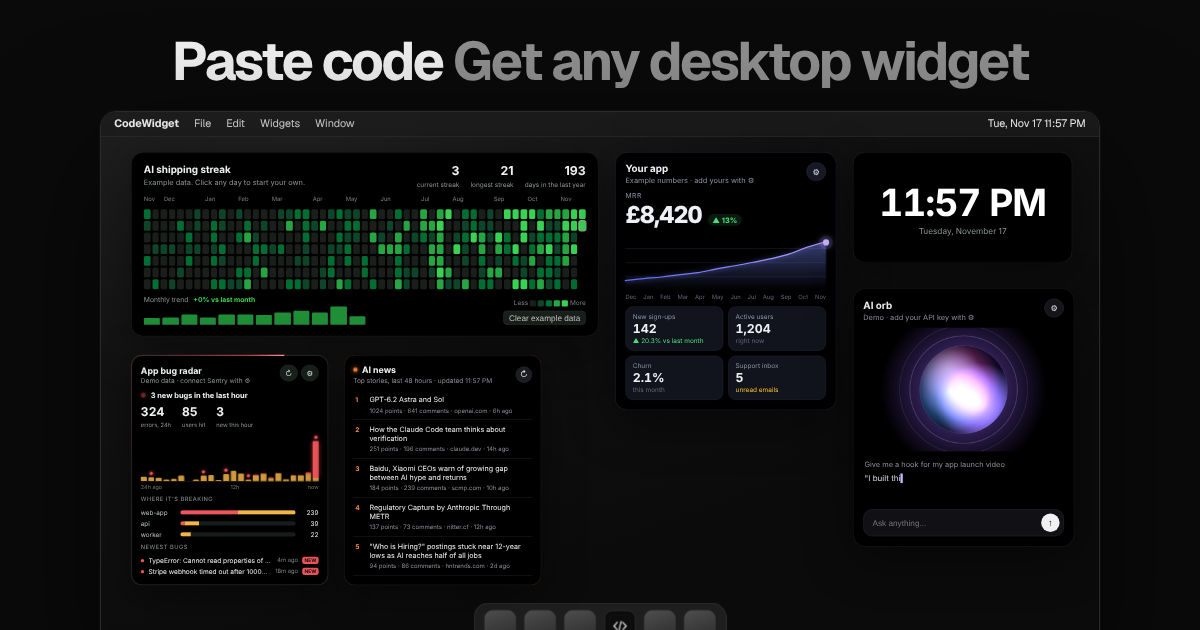
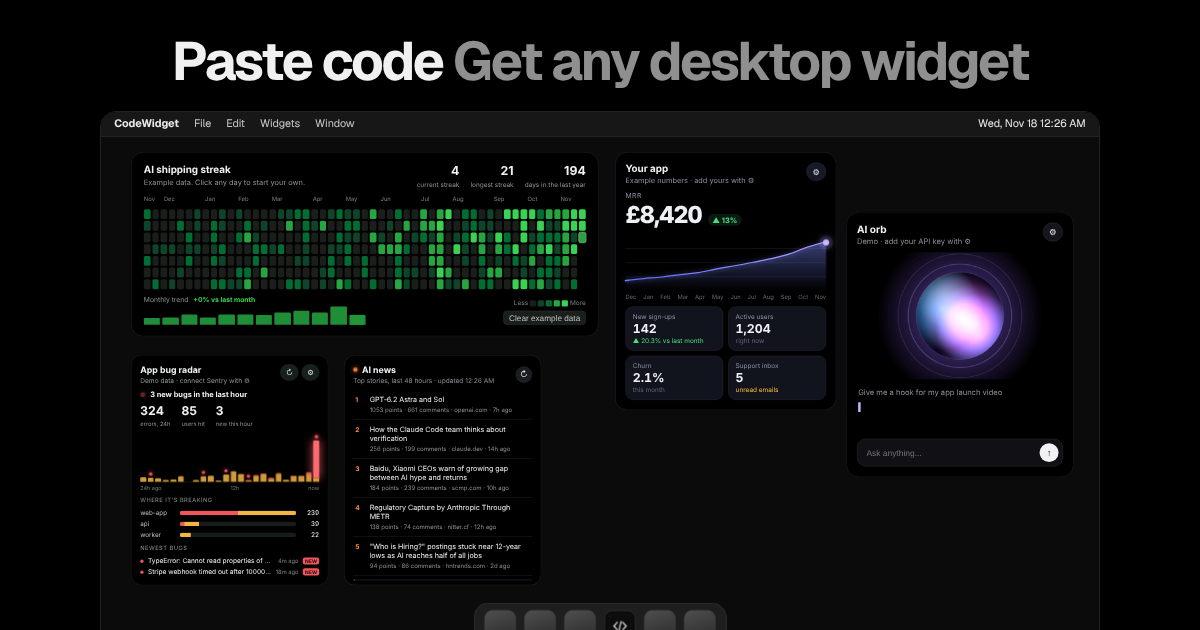
Website: fully black page, AI orb flies in, no banding, grey scrollbars, copy tweaks
- Page background is pure black; panels, fields and checkerboards darkened to match so they sit in it
  subtly.
- Removed the large soft shadows and gradient wallpaper that showed as visible bands on dark screens;
  the hero desktop wallpaper is flat near-black.
- Hero desktop: no clock. The CodeWidget window now types the AI orb's code and the orb flies onto
  the desktop.
- AI news: no scrolling; shows the five top stories.
- Grey, thin scrollbars everywhere (the code box's was bright white).
- Top badge reads Free · Open source · MIT. Footer says just "Free and open source (MIT)".
- Instagram link now goes to @toms.gpt.
- FAQ has six questions (Is it safe to paste code from other people? is back).
- Link preview image updated.

Claude-Session: https://claude.ai/code/session_017AiLmdtveXdU2VAx4AALy7

diff --git a/site/style.css b/site/style.css
@@ -1,10 +1,10 @@
 :root {
-  --bg: #0a0a0a;
-  --panel: #131313;
-  --line: #262626;
+  --bg: #000;
+  --panel: #0b0b0b;
+  --line: #1f1f1f;
   --text: #f0f0f0;
   --sub: #8f8f8f;
-  --field: #1a1a1a;
+  --field: #121212;
 }
 * { box-sizing: border-box; }
 html { scroll-behavior: smooth; }
@@ -15,13 +15,19 @@ body {
   -webkit-font-smoothing: antialiased;
 }
 a { color: inherit; }
+* { scrollbar-width: thin; scrollbar-color: #2a2a2a transparent; }
+::-webkit-scrollbar { width: 8px; height: 8px; }
+::-webkit-scrollbar-track { background: transparent; }
+::-webkit-scrollbar-thumb { background: #2a2a2a; border-radius: 8px; border: 2px solid transparent; background-clip: padding-box; }
+::-webkit-scrollbar-thumb:hover { background-color: #3a3a3a; }
+::-webkit-scrollbar-corner { background: transparent; }
 button { font: inherit; }
 .muted { color: var(--sub); }
 .small { font-size: 13px; }
 
 .nav {
   position: sticky; top: 0; z-index: 5; display: flex; align-items: center; justify-content: space-between;
-  padding: 12px 24px; background: rgba(10,10,10,0.85); backdrop-filter: blur(12px); border-bottom: 1px solid var(--line);
+  padding: 12px 24px; background: rgba(0,0,0,0.82); backdrop-filter: blur(12px); border-bottom: 1px solid var(--line);
 }
 .logo { display: flex; align-items: center; gap: 8px; font-weight: 700; text-decoration: none; }
 .logo img { width: 24px; height: 24px; }
@@ -34,7 +40,7 @@ button { font: inherit; }
   padding: 10px 18px; font-weight: 600; cursor: pointer; text-decoration: none; white-space: nowrap;
   transition: transform .15s ease, background .15s ease, border-color .15s ease, box-shadow .2s ease;
 }
-.btn:hover { transform: translateY(-1px); box-shadow: 0 6px 20px rgba(255,255,255,0.08); }
+.btn:hover { transform: translateY(-1px); }
 .btn:active { transform: translateY(0); }
 .btn.big { padding: 13px 22px; font-size: 15px; border-radius: 11px; }
 .btn:hover { background: #fff; }
@@ -61,14 +67,12 @@ h1 .soft { color: #8f8f8f; }
 /* The live desktop: a 1200 x 660 scene, scaled to fit. */
 .showcase {
   position: relative; margin: 56px auto 0; max-width: 1120px; aspect-ratio: 1200 / 660; border-radius: 16px; overflow: hidden;
-  border: 1px solid #2a2a2a; box-shadow: 0 40px 120px rgba(0,0,0,0.6), 0 0 0 1px rgba(255,255,255,0.03), inset 0 1px 0 rgba(255,255,255,0.08);
+  border: 1px solid #222; box-shadow: inset 0 1px 0 rgba(255,255,255,0.06);
   text-align: left;
 }
 .desk {
   position: absolute; left: 0; top: 0; width: 1200px; height: 660px; transform-origin: 0 0;
-  background:
-    radial-gradient(70% 80% at 20% 0%, rgba(255, 255, 255, 0.05), transparent 70%),
-    linear-gradient(160deg, #171717, #0b0b0b 70%);
+  background: #0b0b0b;
 }
 .menubar {
   position: absolute; left: 0; right: 0; top: 0; height: 30px; display: flex; justify-content: space-between; align-items: center;
@@ -76,12 +80,12 @@ h1 .soft { color: #8f8f8f; }
   border-bottom: 1px solid rgba(255,255,255,0.06);
 }
 .mb-left { display: flex; gap: 18px; } .mb-left span { color: #c9c9c9; }
-.dw { position: absolute; transform-origin: 0 0; border-radius: 20px; filter: drop-shadow(0 18px 40px rgba(0,0,0,0.45)); }
+.dw { position: absolute; transform-origin: 0 0; border-radius: 20px; }
 .dw iframe { width: 100%; height: 100%; border: 0; background: transparent; pointer-events: none; display: block; }
 .dw.fly { opacity: 0; z-index: 4; transition: transform 1s cubic-bezier(.2,.8,.2,1), opacity .4s ease; }
 .cw-win {
   position: absolute; left: 330px; top: 150px; width: 560px; height: 330px; z-index: 3; border-radius: 12px; overflow: hidden;
-  background: rgba(14, 14, 16, 0.96); border: 1px solid #2c2c30; box-shadow: 0 30px 80px rgba(0,0,0,0.55);
+  background: #0c0c0e; border: 1px solid #2c2c30;
   transition: opacity .6s ease, transform .6s ease;
 }
 .cw-win.gone { opacity: 0; transform: scale(0.96); }
@@ -98,7 +102,7 @@ h1 .soft { color: #8f8f8f; }
 .cw-code::after { content: "▍"; color: #f2f2f2; animation: blink 1s steps(1) infinite; }
 .cw-win.done .cw-code::after { content: ""; }
 @keyframes blink { 50% { opacity: 0; } }
-.cw-preview { flex: 1; position: relative; font-size: 11px; color: #6b6b6b; padding: 10px 12px; background-color: #0e0e0e;
+.cw-preview { flex: 1; position: relative; font-size: 11px; color: #6b6b6b; padding: 10px 12px; background-color: #070707;
   background-image: linear-gradient(45deg, #151515 25%, transparent 25%), linear-gradient(-45deg, #151515 25%, transparent 25%),
   linear-gradient(45deg, transparent 75%, #151515 75%), linear-gradient(-45deg, transparent 75%, #151515 75%);
   background-size: 14px 14px; background-position: 0 0, 0 7px, 7px -7px, -7px 0; }
@@ -137,7 +141,7 @@ h1 .soft { color: #8f8f8f; }
 .num { width: 76px; }
 .x { color: var(--sub); }
 .panes {
-  box-shadow: inset 0 1px 0 rgba(255,255,255,0.04), 0 30px 80px rgba(0,0,0,0.35);
+  box-shadow: inset 0 1px 0 rgba(255,255,255,0.04);
   display: grid; grid-template-columns: 1fr 1fr;
   border: 1px solid var(--line); border-radius: 0 0 14px 14px; overflow: hidden;
 }
@@ -149,16 +153,16 @@ h1 .soft { color: #8f8f8f; }
 }
 /* On desktop the code box is exactly as tall as the preview next to it (the preview sets the height). */
 textarea {
-  flex: 1 1 0; min-height: 0; height: 0; resize: none; border: 0; outline: none; padding: 14px; background: #0f0f0f; color: #e6e6e6; tab-size: 2;
+  flex: 1 1 0; min-height: 0; height: 0; resize: none; border: 0; outline: none; padding: 14px; background: #070707; color: #e6e6e6; tab-size: 2;
   font: 12.5px/1.6 "Geist Mono", ui-monospace, SFMono-Regular, Menlo, Consolas, monospace;
 }
 /* The preview box fits the widget: its height is set from the widget's size (app.js). */
 .stage {
   flex: none; height: 300px; transition: height .25s ease; position: relative; overflow: hidden; display: flex; align-items: center; justify-content: center;
-  background-color: #0e0e0e;
+  background-color: #070707;
   background-image:
-    linear-gradient(45deg, #161616 25%, transparent 25%), linear-gradient(-45deg, #161616 25%, transparent 25%),
-    linear-gradient(45deg, transparent 75%, #161616 75%), linear-gradient(-45deg, transparent 75%, #161616 75%);
+    linear-gradient(45deg, #0d0d0d 25%, transparent 25%), linear-gradient(-45deg, #0d0d0d 25%, transparent 25%),
+    linear-gradient(45deg, transparent 75%, #0d0d0d 75%), linear-gradient(-45deg, transparent 75%, #0d0d0d 75%);
   background-size: 20px 20px; background-position: 0 0, 0 10px, 10px -10px, -10px 0;
 }
 .frame { flex: none; outline: 1px dashed #3a3a3a; transform-origin: center center; }
@@ -175,10 +179,10 @@ h3 { margin: 0 0 6px; font-size: 17px; }
 .example:hover { border-color: #3a3a3a; transform: translateY(-2px); }
 .example-stage {
   height: 460px; display: flex; align-items: center; justify-content: center; overflow: hidden; position: relative;
-  background-color: #0e0e0e;
+  background-color: #070707;
   background-image:
-    linear-gradient(45deg, #161616 25%, transparent 25%), linear-gradient(-45deg, #161616 25%, transparent 25%),
-    linear-gradient(45deg, transparent 75%, #161616 75%), linear-gradient(-45deg, transparent 75%, #161616 75%);
+    linear-gradient(45deg, #0d0d0d 25%, transparent 25%), linear-gradient(-45deg, #0d0d0d 25%, transparent 25%),
+    linear-gradient(45deg, transparent 75%, #0d0d0d 75%), linear-gradient(-45deg, transparent 75%, #0d0d0d 75%);
   background-size: 20px 20px; background-position: 0 0, 0 10px, 10px -10px, -10px 0;
 }
 .example-stage iframe { flex: none; border: 0; background: transparent; transform-origin: center center; }

diff --git a/site/index.html b/site/index.html
@@ -14,7 +14,7 @@
 <meta property="og:image:height" content="630">
 <meta name="twitter:card" content="summary_large_image">
 <meta name="twitter:image" content="https://thomaslrw.github.io/CodeWidget/og.png">
-<meta name="theme-color" content="#0a0a0a">
+<meta name="theme-color" content="#000000">
 <link rel="icon" href="icon.png">
 <link rel="preconnect" href="https://fonts.googleapis.com">
 <link rel="preconnect" href="https://fonts.gstatic.com" crossorigin>
@@ -35,7 +35,7 @@
 
 <header class="hero" id="top">
   <div class="badges">
-    <a class="badge" href="https://github.com/thomaslrw/CodeWidget" target="_blank" rel="noopener"><span class="pulse"></span>Open source &middot; MIT</a>
+    <a class="badge" href="https://github.com/thomaslrw/CodeWidget" target="_blank" rel="noopener"><span class="pulse"></span>Free &middot; Open source &middot; MIT</a>
     <a class="badge" href="https://github.com/thomaslrw/CodeWidget" target="_blank" rel="noopener" id="stars">&#9733; Star on GitHub</a>
   </div>
   <h1>Paste code<br><span class="soft">Get any desktop widget</span></h1>
@@ -55,7 +55,6 @@
       <div class="dw" data-src="examples/bug-radar.html" data-w="360" data-h="420" data-x="36" data-y="292" data-s="0.66"></div>
       <div class="dw" data-src="examples/ai-news.html" data-w="360" data-h="420" data-x="292" data-y="292" data-s="0.66"></div>
       <div class="dw" data-src="examples/founder-dashboard.html" data-w="360" data-h="420" data-x="618" data-y="48" data-s="0.74"></div>
-      <div class="dw" data-src="examples/ai-orb.html" data-w="360" data-h="420" data-x="904" data-y="212" data-s="0.74"></div>
       <div class="cw-win" id="cwWin">
         <div class="cw-title"><span class="lights"><i></i><i></i><i></i></span><span>CodeWidget</span><span class="cw-add" id="cwAdd">Add widget</span></div>
         <div class="cw-body">
@@ -63,7 +62,7 @@
           <div class="cw-preview"><span>Preview</span></div>
         </div>
       </div>
-      <div class="dw fly" id="flyer" data-src="examples/clock.html" data-w="400" data-h="200" data-x="904" data-y="48" data-s="0.66"></div>
+      <div class="dw fly" id="flyer" data-src="examples/ai-orb.html" data-w="360" data-h="420" data-x="896" data-y="120" data-s="0.76"></div>
       <div class="dock"><i></i><i></i><i></i><i class="me"></i><i></i><i></i></div>
     </div>
   </div>
@@ -162,6 +161,7 @@
     <details><summary>Which computers does it work on?</summary><p>Mac (Apple silicon and Intel), Windows and Linux. The download button picks the right one for you.</p></details>
     <details><summary>Does it work on my phone?</summary><p>No. CodeWidget is for desktop computers. Phones only let App Store apps put widgets on the home screen.</p></details>
     <details><summary>Why does my computer warn me the first time?</summary><p>CodeWidget isn't signed by Apple or Microsoft yet, so your computer asks you to confirm once. "First time opening it?" above shows where to click.</p></details>
+    <details><summary>Is it safe to paste code from other people?</summary><p>Widget code runs in a sandbox, like a web page. It can't read your files, run commands or use your camera or microphone. Only paste code you'd be happy to run in a browser.</p></details>
     <details><summary>What code works?</summary><p>One HTML file with its CSS and JavaScript inside. Code copied straight from an AI chat works, even with the ``` marks around it.</p></details>
   </div>
 </section>
@@ -176,8 +176,8 @@
 </section>
 
 <footer class="footer">
-  <span>Built by <a href="https://www.instagram.com/thomas.lrw/" target="_blank" rel="noopener">Thomas</a> with AI &middot; Free and open source (MIT)</span>
-  <span class="foot-links"><a href="https://github.com/thomaslrw/CodeWidget" target="_blank" rel="noopener">GitHub</a><a href="https://www.instagram.com/thomas.lrw/" target="_blank" rel="noopener">Instagram</a></span>
+  <span>Free and open source (MIT)</span>
+  <span class="foot-links"><a href="https://github.com/thomaslrw/CodeWidget" target="_blank" rel="noopener">GitHub</a><a href="https://www.instagram.com/toms.gpt/" target="_blank" rel="noopener">Instagram</a></span>
 </footer>
 
 <div id="toast" class="toast" hidden></div>

diff --git a/site/app.js b/site/app.js
@@ -352,17 +352,18 @@ function menuClock() {
 
 // The story in three seconds: code is pasted, the preview builds, the widget flies onto the desktop.
 const TYPED = [
-  ["c", "<!-- A clock with the date -->"],
-  ["", '<div class="clock">'],
-  ["", '  <div id="time">00:00</div>'],
-  ["", '  <div id="date"></div>'],
+  ["c", "<!-- AI orb: ask anything -->"],
+  ["", '<div class="w">'],
+  ["", '  <canvas id="orb"></canvas>'],
+  ["", '  <form id="ask">'],
+  ["", '    <input placeholder="Ask anything...">'],
+  ["", "  </form>"],
   ["", "</div>"],
   ["k", "<style>"],
-  ["", "  .clock { height: 100vh;"],
-  ["", "    display: flex; ... }"],
+  ["", "  .w { background: #000; ... }"],
   ["k", "</style>"],
   ["k", "<script>"],
-  ["", "  setInterval(tick, 1000);"],
+  ["", "  fetch(\"api.anthropic.com/...\")"],
   ["k", "</script>"],
 ];
 const sleep = (ms) => new Promise((r) => setTimeout(r, ms));
@@ -372,10 +373,16 @@ async function playStory() {
   const flyer = $("flyer");
   const typer = $("typer");
   if (!win || !flyer) return;
-  // Where the clock sits in the editor's preview, and where it ends up on the desktop (in desk pixels).
+  // Where the widget sits in the editor window's preview pane (x 620 to 890, y 180 to 480 on the desk),
+  // and where it ends up on the desktop.
   const fx = Number(flyer.dataset.x);
   const fy = Number(flyer.dataset.y);
-  const inPreview = `translate(${640 - fx}px, ${272 - fy}px) scale(0.575)`;
+  const fw = Number(flyer.dataset.w);
+  const fh = Number(flyer.dataset.h);
+  const ps = Math.min(246 / fw, 276 / fh);
+  const px = 620 + (270 - fw * ps) / 2;
+  const py = 180 + (300 - fh * ps) / 2;
+  const inPreview = `translate(${px - fx}px, ${py - fy}px) scale(${ps})`;
   const onDesk = `scale(${flyer.dataset.s})`;
   if (reduceMotion) {
     win.classList.add("gone");

diff --git a/site/examples/ai-news.html b/site/examples/ai-news.html
@@ -23,7 +23,7 @@
   button:hover { border-color: #ff8a3d; color: #ff8a3d; }
   button.spin { animation: spin .8s linear infinite; }
   @keyframes spin { to { transform: rotate(360deg); } }
-  .list { flex: 1; overflow-y: auto; display: flex; flex-direction: column; }
+  .list { flex: 1; min-height: 0; overflow: hidden; display: flex; flex-direction: column; }
   a { display: flex; gap: 10px; padding: 9px 4px; border-bottom: 1px solid #1d1f23; color: inherit; text-decoration: none; }
   a:hover .title { color: #ffb27a; }
   .rank { color: #ff8a3d; font-weight: 700; font-size: 12px; width: 16px; flex: none; padding-top: 1px; }
@@ -53,7 +53,7 @@
         // Only stories really about AI: the search also matches words like "airline".
         .filter((h) => h.title && AI.test(h.title) && !seen.has(h.objectID) && seen.add(h.objectID))
         .sort((a, b) => (b.points || 0) - (a.points || 0))
-        .slice(0, 12);
+        .slice(0, 5);
       list.textContent = "";
       if (!stories.length) list.innerHTML = '<div class="msg">No stories right now. Try again soon.</div>';
       stories.forEach((h, i) => {
